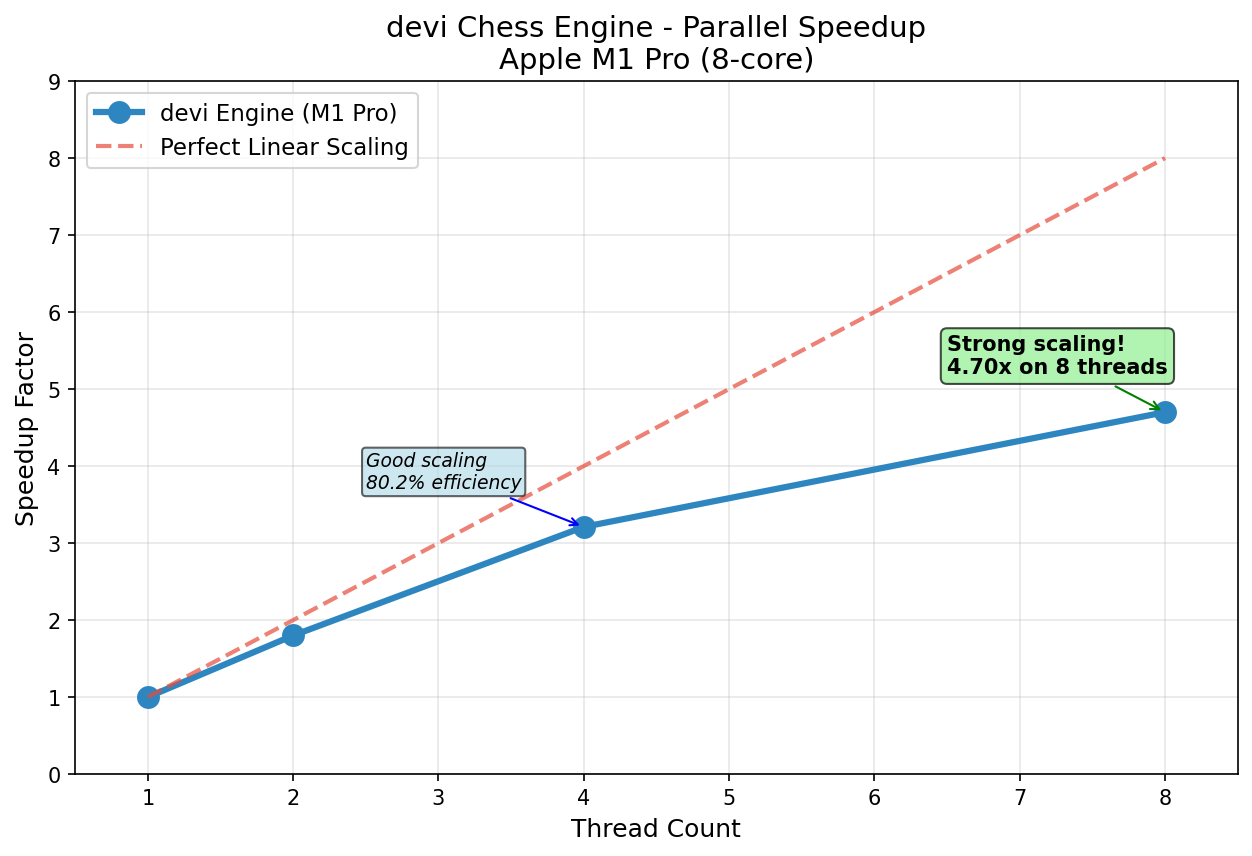
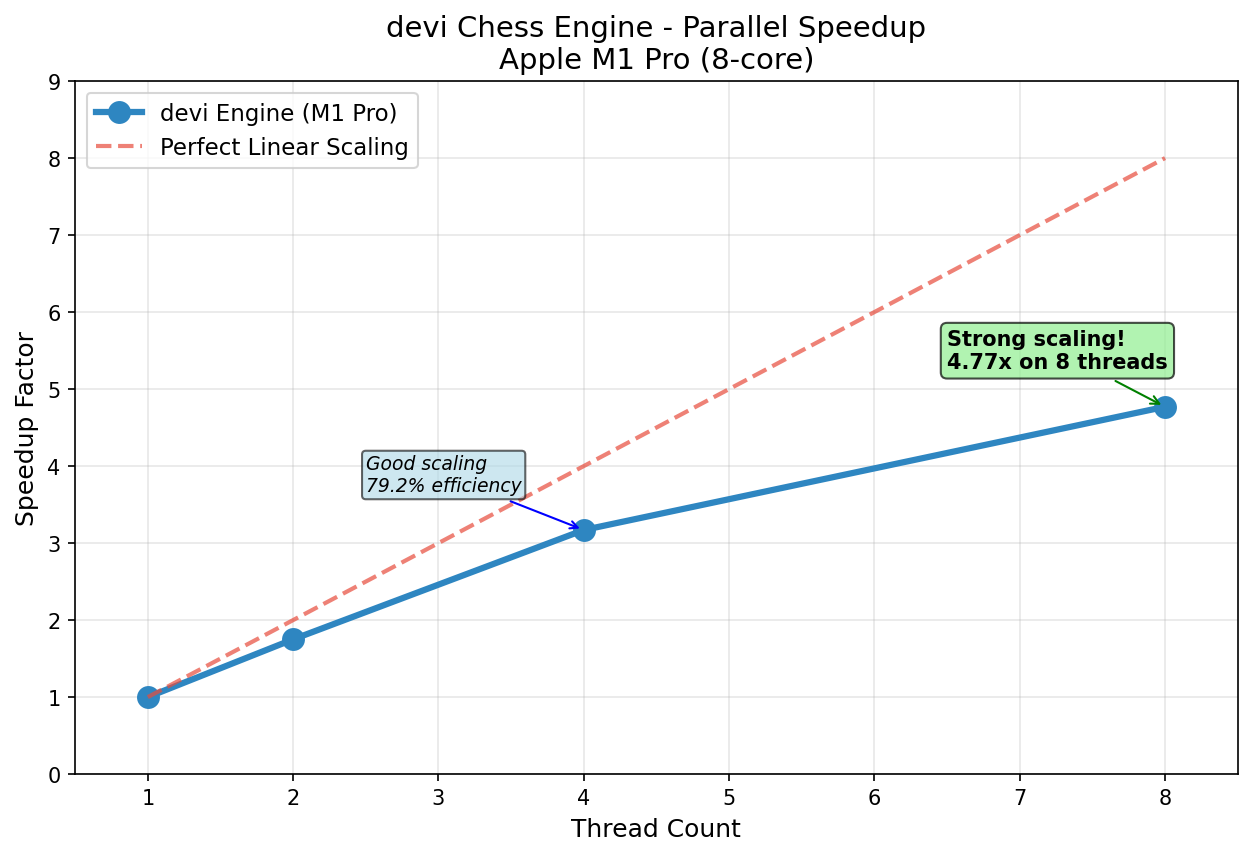
v0.2.2 Release ready with 4.77x speedup

diff --git a/src/cli/commands.rs b/src/cli/commands.rs
@@ -185,7 +185,7 @@ pub fn run_perft_test(args: &Cli) {
 
 pub fn run_perft_depths(args: &Cli, board: &mut Board, parallel: bool) {
     
-    println!("\nDepth | Nodes        | Time     | Searches/sec");
+    println!("\nDepth | Nodes        | Time     | Nodes/sec");
     println!("------|--------------|----------|----------");
     
     for depth in 1..=args.depth {

diff --git a/src/main.rs b/src/main.rs
@@ -1,7 +1,7 @@
 use devi::cli;
 
 fn main() {
-    println!("devi Chess Engine v0.2.0");
+    println!("devi Chess Engine v{}", env!("CARGO_PKG_VERSION"));
     println!("------------------------");
 
     let args = cli::parse_args();

diff --git a/README.md b/README.md
@@ -1,7 +1,6 @@
 # devi Chess Engine
 
-A chess engine written in Rust to understand chess engine algorithms, their history, and explore intuitive Rust implementations. 
-This project explores chess engine algorithms through the lens of high-performance computing, demonstrating system-level optimizations and clean Rust development.
+Building a chess engine from scratch to understand parallel search algorithms and push Rust's performance boundaries.
 
 ## Inspiration & Learning Resources
 - **Book**: Chess Algo - Noah Caplinger - modern algorithmic approach to chess programming and search optimization
@@ -10,7 +9,7 @@ This project explores chess engine algorithms through the lens of high-performan
 - Research papers on Lazy SMP, Jamboree search, and transposition-table design
 
 ## Project Philosophy
-**Hypothesis → Experiment → Measure → Analyze → Document**
+**Approach:** Build it, measure it, understand the bottlenecks.
 
 ## Performance Status
 ![Build Status](https://github.com/Sid4mn/devi-chess-engine/workflows/CI/badge.svg)
@@ -27,12 +26,14 @@ cargo run --release -- --benchmark
 ./scripts/threads.sh
 ```
 
-### Performance Characteristics
-- **Single-thread baseline**: 165.91 searches/second
-- **Parallel scaling**: 4.58x speedup on 8 threads (Apple M1 Pro)
-- **Efficiency**: 79.9% at 4 threads, 57.2% at 8 threads
-- **Operational range**: Depth 4-6 for optimal performance
-- **Validation**: Soak testing shows consistent stability (median 1.576ms)
+### Performance Results
+- **Baseline**: 165.65 searches/second (single thread)
+- **Peak**: 4.77× speedup on 8 threads (Apple M1 Pro, 59.6% efficiency)
+- **Sweet spot**: 3.17× speedup on 4 threads (79.2% efficiency)
+- **Stability**: Median 1.414ms over 100 iterations (soak test validation)
+- **Methodology**: 5 warmup + 10 measurement runs, median timing with outlier detection
+
+**Hardware**: Apple M1 Pro (6 performance + 2 efficiency cores), lock-free parallel search via Rayon
 
 ### CLI Usage
 ```bash
@@ -94,23 +95,24 @@ cargo run --release -- --perft --parallel-perft --threads 8 --depth 7 # Parallel
   - [x] Queens (rook + bishop combined)
 - [x] Trait-based architecture
 - [x] Legal move filtering with check detection
-- [x] Perft validation suite (perfect through depth 6)
+- [x] Perft validation suite (perfect through depth 7)
 - [x] **Alpha-beta search implementation**
 - [x] **Material evaluation function**
 - [x] **CI/CD pipeline with regression tests**
-- [x] **Performance baseline: 165.91 searches/second**
 - [x] **Flamegraph profiling**
 
 ## Perft Verification
 
-| Depth | Nodes       | Status |
-|-------|-------------|--------|
-| 1     | 20          | ✅     |
-| 2     | 400         | ✅     |
-| 3     | 8,902       | ✅     |
-| 4     | 197,281     | ✅     |
-| 5     | 4,865,609   | ✅     |
-| 6     | 119,060,324 | ✅     |
+| Depth | Nodes         | Status |
+|-------|-------------  |------- |
+| 1     | 20            |   ✅   |
+| 2     | 400           |   ✅   |
+| 3     | 8,902         |   ✅   |
+| 4     | 197,281       |   ✅   |
+| 5     | 4,865,609     |   ✅   |
+| 6     | 119,060,324   |   ✅   |
+| 7     | 3,195,901,860 |   ✅   |
+
 
 **Week 2**: **COMPLETED** - Parallel Scalability
 - [x] Lazy-SMP root parallelization with Rayon
@@ -121,7 +123,7 @@ cargo run --release -- --perft --parallel-perft --threads 8 --depth 7 # Parallel
 - [x] Statistical analysis with warmup/outlier detection
 - [x] Performance visualization and CSV export
 - [x] **Automated reproduction scripts (threads.sh, soak.sh)**
-- [x] **4.58x speedup achievement on 8 threads**
+- [x] **Speedup achievement on 8 threads**
 
 **Week 3**: v2 Move Ordering & Optimization
 - [ ] MVV-LVA capture ordering
@@ -137,21 +139,6 @@ cargo run --release -- --perft --parallel-perft --threads 8 --depth 7 # Parallel
 - [ ] Transposition table experiments
 - [ ] Cache miss analysis with perf
 - [ ] Memory optimization
-
-### Performance Metrics
-
-### Current Achievements
-- **Search Speed**: 165.91 searches/second (single-thread baseline)
-- **Parallel Scaling**: 4.58x speedup on 8 threads (Apple M1 Pro)
-- **Search Depth**: 4-6 plies optimal operational range
-- **Evaluation**: Material-only with clean extensibility
-- **Hardware**: Apple M1 Pro (8-core, performance/efficiency hybrid)
-
-### Statistical Validation
-- **Benchmark methodology**: 5 warmup + 10 measurement runs
-- **Soak testing**: 100 iteration stability validation (median 1.576ms)
-- **Statistical metrics**: Min/median/p95/max timing analysis
-- **Thread safety**: Zero data races in parallel execution
 
 ## Current Status
 **Week 2 - Complete**

diff --git a/docs/project_brief.md b/docs/project_brief.md
@@ -1,0 +1,33 @@
+# Parallel Scaling of Alpha-Beta Tree Search (Rust + Rayon)
+*A reproducible HPC probe for irregular tree search on an 8-core CPU.*
+
+**Motivation.** Irregular, branchy tree search stresses parallel runtimes via load imbalance and dynamic work distribution. My aim is a **clean, reproducible** scaling measurement-not a top chess engine. Consistent with **Amdahl's law**, small serial fractions bound speedup as cores increase. This project serves as a research probe for understanding parallel efficiency limits in tree-structured computations.
+
+**Implementation.** Perft-validated Rust engine (correct through depth 7); fixed-depth alpha-beta (d=4); **Lazy-SMP root split** via Rayon with lock-free parallel search. Benchmarks on **Apple M1 Pro (8-core: 6 performance + 2 efficiency)** with 5 warmup + 10 measurement runs per configuration. Statistical robustness via median timing and outlier detection.
+
+**Results.**
+| Threads | Searches/s (d=4) | Speedup | Efficiency |
+|--------:|------------------:|--------:|-----------:|
+| 1       | 165.65            | 1.00×   | 100.0%     |
+| 2       | 289.39            | 1.75×   | 87.4%      |
+| 4       | 524.52            | 3.17×   | 79.2%      |
+| 8       | 790.20            | **4.77×** | **59.6%** |
+
+
+![Speedup vs threads (measured vs ideal)](../benchmarks/speedup.png)
+
+*Amdahl view.* Scaling 1→8 threads reached **4.77×**; a simple fit implies a serial fraction ≈ **0.10**, matching the observed efficiency ceiling. The 59.6% efficiency at 8 threads reflects typical memory subsystem contention and synchronization overhead in shared-memory parallel search.
+
+**Stability Validation.** Soak test (100 iterations, 8 threads): median 1.414ms, p95 2.268ms, showing the engine doesn't degrade under sustained load.
+
+**Reproducibility.** Tagged release: **v0.2.2** with artifacts.
+```bash
+git clone https://github.com/Sid4mn/devi-chess-engine.git
+cd devi-chess-engine && git checkout v0.2.2
+./scripts/threads.sh   # regenerates benchmarks/speedup.csv and benchmarks/speedup.png
+```
+
+**Next Steps.** (1) Compare root-only split vs shallow PV-split to quantify split-point effects on load imbalance. (2) Implement fault-tolerant search with panic recovery to study resilience overhead in parallel tree search.
+
+---
+*Contact: sid4mndev@gmail.com | GitHub: https://github.com/Sid4mn/devi-chess-engine*
